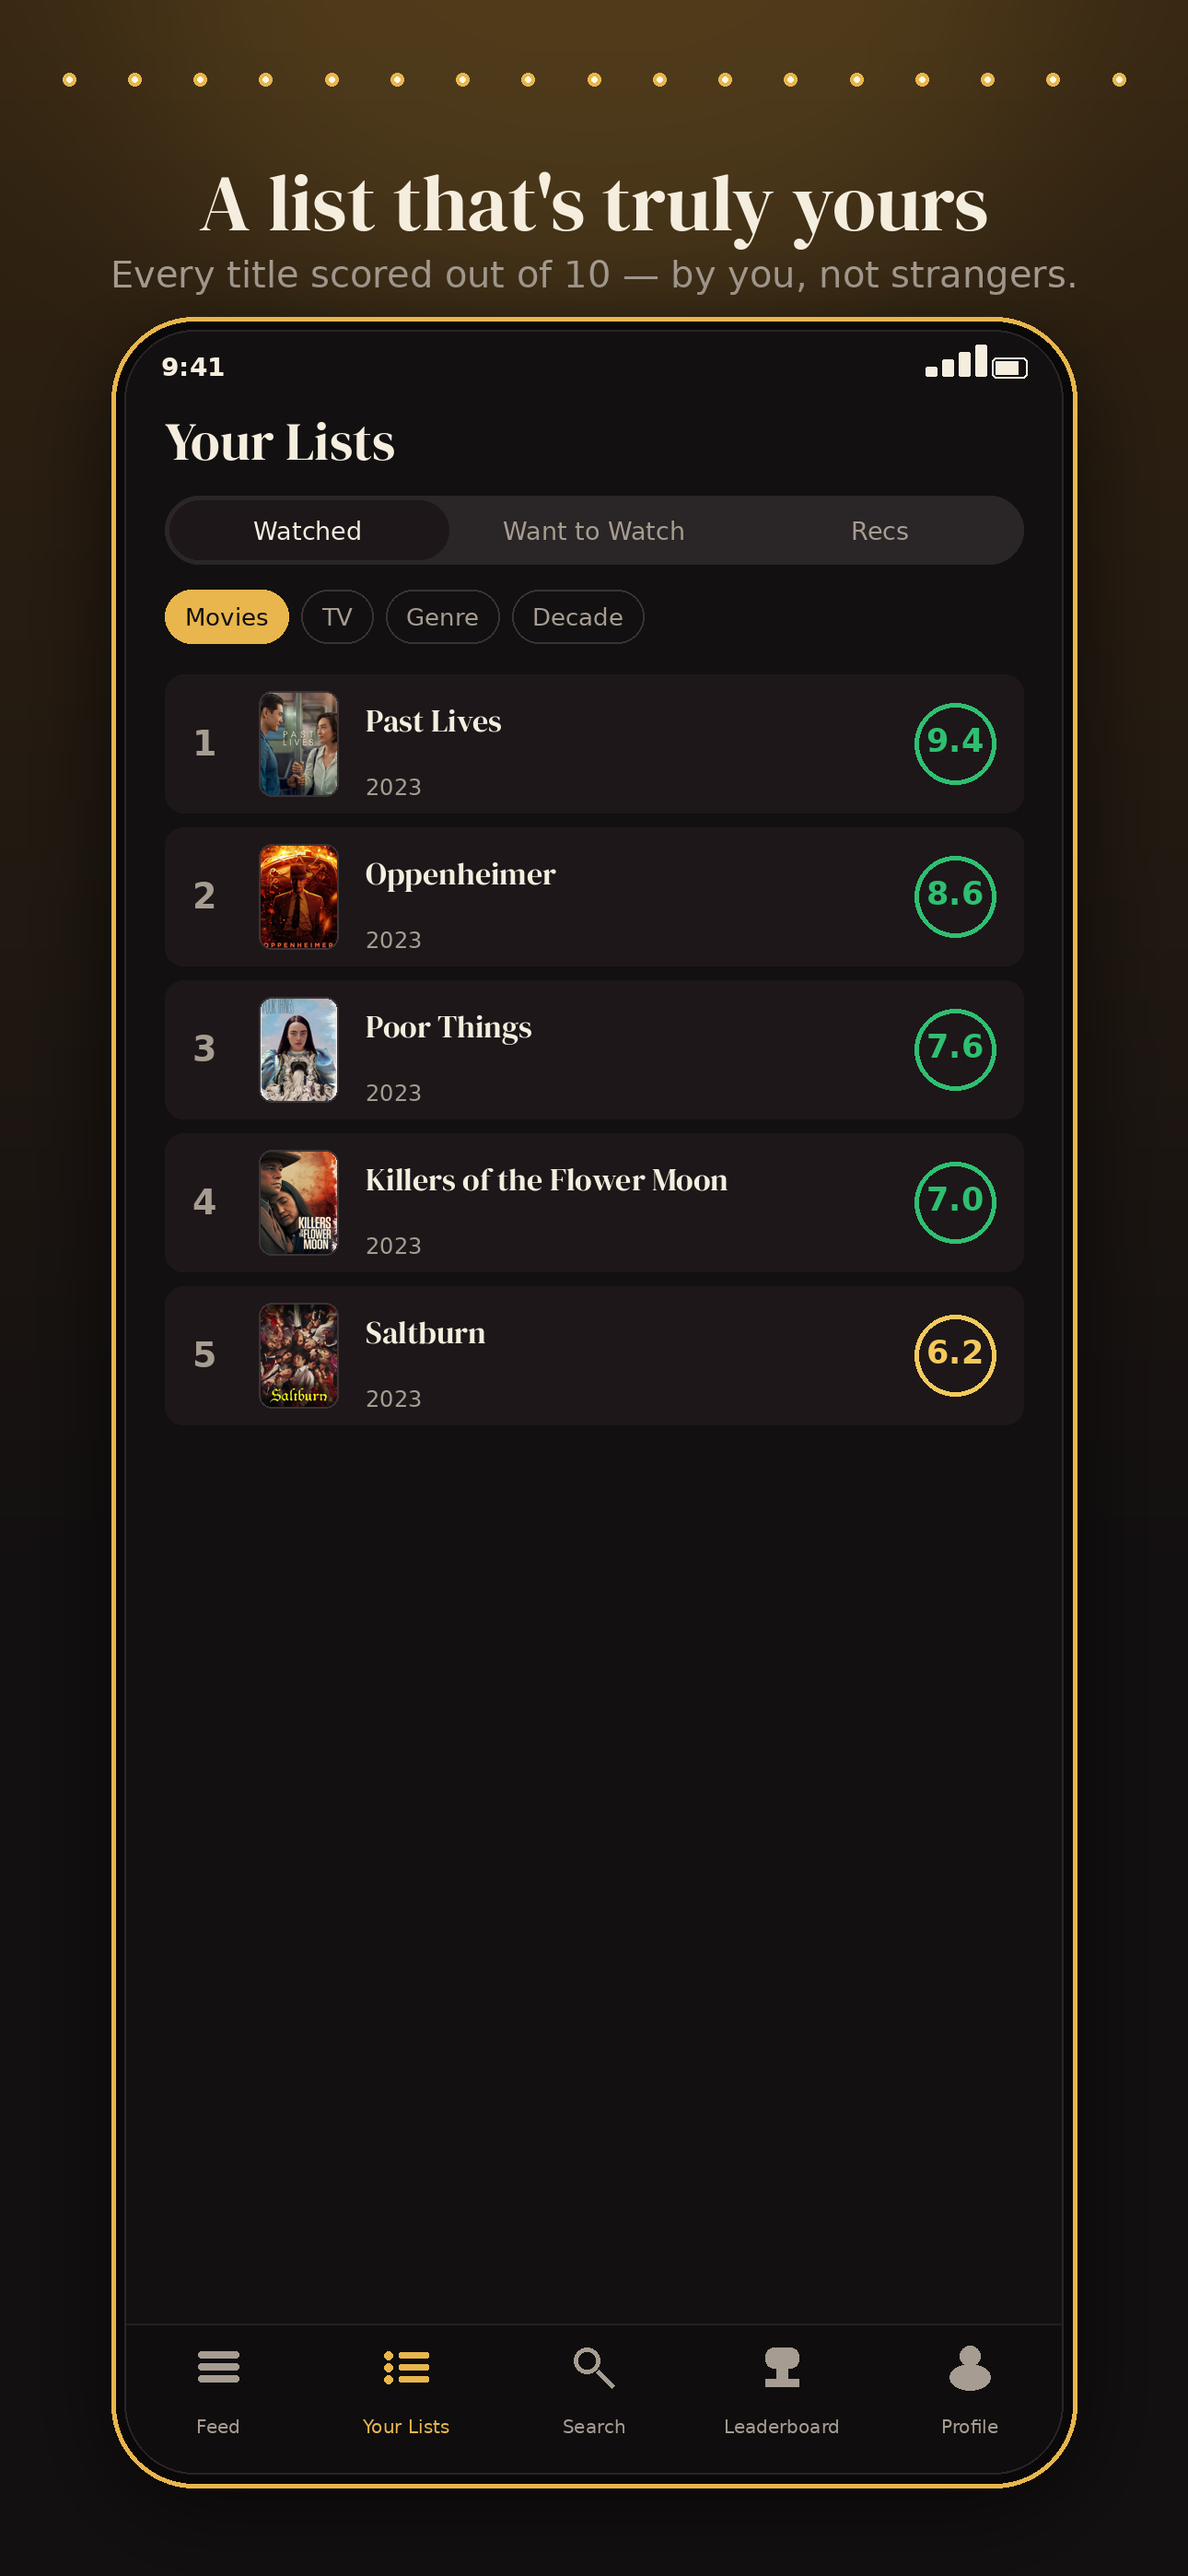
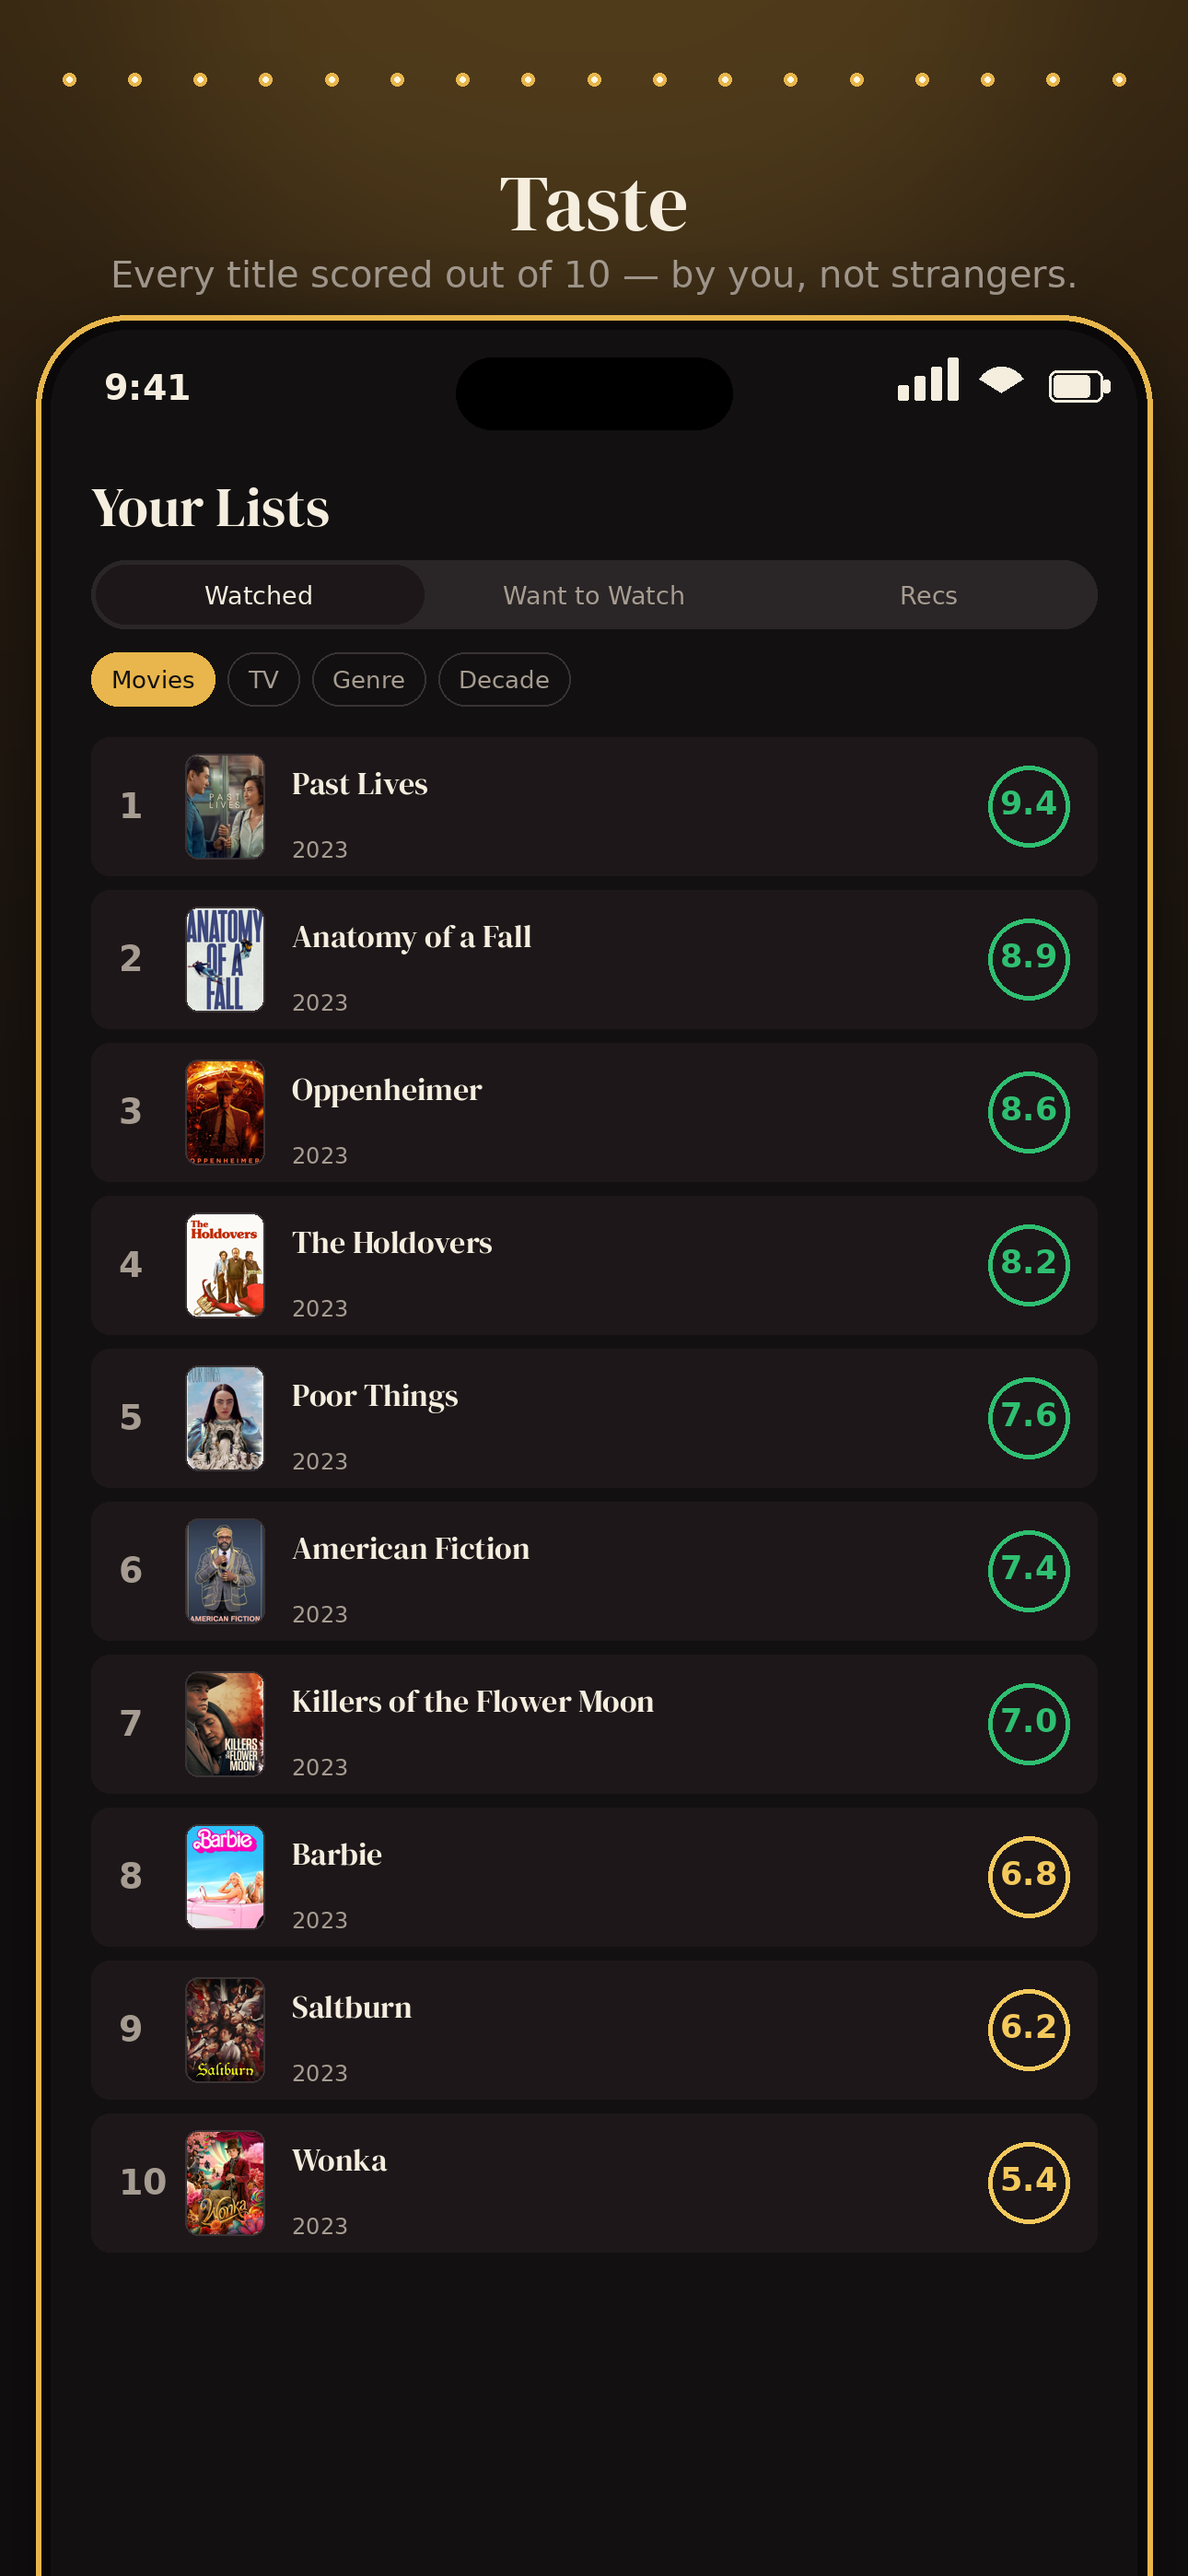
App Store screenshots: Beli-style focused frames
Bigger phone cropped at the bottom, real iOS status bar + Dynamic Island up
top, one-word headers (Rank/Compare/Taste/Friends/Discover), current app UI
filling the frame, real posters, marquee bulbs + gold frame.

diff --git a/docs/appstore/generate.py b/docs/appstore/generate.py
@@ -118,25 +118,25 @@ def caption(d, headline, sub):
 
 SCREEN = None  # set by phone(); poster() pastes onto this
 def phone(top, draw_screen):
-    """Large clean phone — black bezel + soft shadow, no ornamental rim."""
+    """Big, close phone cropped at the bottom (Beli-style), gold marquee frame."""
     global SCREEN
-    pw, ph = 1020, 2796-top-110
+    pw = 1180
     x0=(W-pw)//2; y0=top
+    ph = H - y0 + 220        # extend past the bottom edge → close + cropped
     sh=Image.new("RGBA",(W,H),(0,0,0,0))
-    ImageDraw.Draw(sh).rounded_rectangle([x0-14,y0+14,x0+pw+14,y0+ph+34], radius=96, fill=(0,0,0,160))
-    sh=sh.filter(ImageFilter.GaussianBlur(46))
+    ImageDraw.Draw(sh).rounded_rectangle([x0-14,y0+16,x0+pw+14,y0+ph], radius=104, fill=(0,0,0,160))
+    sh=sh.filter(ImageFilter.GaussianBlur(48))
     BASE.paste(Image.alpha_composite(BASE.convert("RGBA"),sh).convert("RGB"),(0,0))
     d=ImageDraw.Draw(BASE)
-    d.rounded_rectangle([x0-14,y0-14,x0+pw+14,y0+ph+14], radius=90, fill="#0a0809")
+    d.rounded_rectangle([x0-16,y0-16,x0+pw+16,y0+ph], radius=100, fill="#0a0809")
     # marquee-gold frame echoing the app icon's border
-    d.rounded_rectangle([x0-14,y0-14,x0+pw+14,y0+ph+14], radius=90, outline=MARQUEE, width=5)
+    d.rounded_rectangle([x0-16,y0-16,x0+pw+16,y0+ph], radius=100, outline=MARQUEE, width=6)
     screen=Image.new("RGB",(pw,ph),BG); SCREEN=screen
     sd=ImageDraw.Draw(screen)
     draw_screen(sd, pw, ph)
     mask=Image.new("L",(pw,ph),0)
-    ImageDraw.Draw(mask).rounded_rectangle([0,0,pw-1,ph-1], radius=76, fill=255)
+    ImageDraw.Draw(mask).rounded_rectangle([0,0,pw-1,ph-1], radius=84, fill=255)
     BASE.paste(screen,(x0,y0),mask)
-    d.rounded_rectangle([x0,y0,x0+pw-1,y0+ph-1], radius=76, outline="#2a2526", width=2)
 
 def score_badge(d, cx, cy, val, r=44, color=None):
     color = color or (GREEN if val>=7 else FINE if val>=5 else DIS)
@@ -170,12 +170,20 @@ def poster(d, x, y, w, h, title="", tone=0, query=None, year=None):
 SHOTS=[]
 
 def status_bar(d, pw):
-    d.text((40, 24), "9:41", font=sb(28), fill=INK)
-    # signal + battery glyphs (simple)
+    # Dynamic Island
+    iw=300; ih=78; ix=(pw-iw)//2; iy=30
+    d.rounded_rectangle([ix,iy,ix+iw,iy+ih], radius=39, fill="#000000")
+    # time (left)
+    d.text((58, 40), "9:41", font=sb(38), fill=INK)
+    # right cluster: signal bars, wifi fan, battery
     for i in range(4):
-        h=10+i*8; d.rounded_rectangle([pw-150+i*18, 50-h, pw-138+i*18, 50], radius=2, fill=INK)
-    d.rounded_rectangle([pw-78, 30, pw-40, 52], radius=5, outline=INK, width=2)
-    d.rectangle([pw-74, 34, pw-50, 48], fill=INK)
+        h=16+i*10; d.rounded_rectangle([pw-260+i*18, 76-h, pw-249+i*18, 76], radius=2, fill=INK)
+    wx=pw-176
+    d.pieslice([wx, 40, wx+56, 96], 212, 328, fill=INK)
+    bx=pw-96
+    d.rounded_rectangle([bx, 44, bx+58, 78], radius=8, outline=INK, width=3)
+    d.rounded_rectangle([bx+5, 49, bx+44, 73], radius=4, fill=INK)
+    d.rounded_rectangle([bx+58, 54, bx+66, 68], radius=3, fill=INK)
 
 def tabbar(d, pw, ph, active=0):
     bh=164; y=ph-bh
@@ -210,53 +218,56 @@ def chip(d, x, y, text, active=False):
         d.text((x+22,y+14),text,font=f,fill=GRAY)
     return x+cw+14
 
-# 1 — HERO (clean brand intro)
+# 1 — HERO (brand intro)
 def s_hero(d, pw, ph):
+    status_bar(d, pw)
     cx=pw//2
-    f=disp(168); t="CINI"; w=d.textlength(t,font=f)
-    d.text((cx-w/2, ph*0.30), t, font=f, fill=MARQUEE)
-    ctext(d, cx, ph*0.30+200, "EVERY FILM · RANKED", sb(34), GRAY, track=12)
-    ctext(d, cx, ph*0.52, "Rank everything you watch", sf(46), INK)
-    ctext(d, cx, ph*0.52+70, "through quick head-to-head taps.", sf(46), INK)
+    f=disp(176); t="CINI"; w=d.textlength(t,font=f)
+    d.text((cx-w/2, 520), t, font=f, fill=MARQUEE)
+    ctext(d, cx, 740, "EVERY FILM · RANKED", sb(36), GRAY, track=12)
+    ctext(d, cx, 1000, "Rank everything you watch", sf(50), INK)
+    ctext(d, cx, 1072, "through quick head-to-head taps.", sf(50), INK)
     for k,(c,lbl) in enumerate([(LOVE,"Liked it"),(FINE,"It was fine"),(DIS,"Didn't")]):
-        bx=cx-300+k*300
-        d.ellipse([bx-60,ph*0.70,bx+60,ph*0.70+120], fill=c)
-        ww=d.textlength(lbl,font=sa(28)); d.text((bx-ww/2, ph*0.70+150), lbl, font=sa(28), fill=GRAY)
-SHOTS.append(("01-hero", "Every film, ranked.", "No star ratings — just your taste, in perfect order.", s_hero, "gold"))
+        bx=cx-320+k*320
+        d.ellipse([bx-66,1360,bx+66,1492], fill=c)
+        ww=d.textlength(lbl,font=sa(30)); d.text((bx-ww/2, 1520), lbl, font=sa(30), fill=GRAY)
+SHOTS.append(("01-hero", "Rank", "No star ratings — just your taste, in perfect order.", s_hero, "gold"))
 
 # 2 — COMPARE (the ranking modal)
 def s_compare(d, pw, ph):
     status_bar(d, pw)
     cx=pw//2
-    ctext(d, cx, 200, "Which did you", sf(64), INK)
-    ctext(d, cx, 280, "like more?", sf(64), INK)
-    pwid=380; px=80; py=520
+    ctext(d, cx, 220, "Which did you", sf(66), INK)
+    ctext(d, cx, 304, "like more?", sf(66), INK)
+    pwid=460; px=70; py=520
     poster(d, px, py, pwid, pwid*3//2, query="Whiplash", year=2014)
     poster(d, pw-px-pwid, py, pwid, pwid*3//2, query="Interstellar", year=2014)
     cyc=py+pwid*3//4
-    d.ellipse([cx-56, cyc-56, cx+56, cyc+56], fill=VELVET)
-    vt="VS"; f=sb(42); w=d.textlength(vt,font=f); d.text((cx-w/2, cyc-28), vt, font=f, fill="#fff")
+    d.ellipse([cx-62, cyc-62, cx+62, cyc+62], fill=VELVET)
+    vt="VS"; f=sb(46); w=d.textlength(vt,font=f); d.text((cx-w/2, cyc-30), vt, font=f, fill="#fff")
     for k,c in enumerate([LOVE,FINE,DIS]):
-        bx=cx-150+k*150; by=py+pwid*3//2+90
-        d.ellipse([bx-32,by,bx+32,by+64], fill=c)
-    ctext(d, cx, py+pwid*3//2+200, "A few quick taps — no scores to overthink.", sa(28), GRAY)
-SHOTS.append(("02-no-star-ratings", "No star ratings. Ever.", "Answer one question and Cini orders everything you've seen.", s_compare, "velvet"))
+        bx=cx-170+k*170; by=py+pwid*3//2+110
+        d.ellipse([bx-38,by,bx+38,by+76], fill=c)
+    ctext(d, cx, py+pwid*3//2+240, "A few quick taps — no scores to overthink.", sa(30), GRAY)
+SHOTS.append(("02-no-star-ratings", "Compare", "Answer one question and Cini orders everything you've seen.", s_compare, "velvet"))
 
-# 3 — YOUR LISTS (current app: segmented tabs + filter chips + ranked rows)
+# 3 — YOUR LISTS (segmented tabs + filter chips + ranked rows)
 def s_list(d, pw, ph):
     status_bar(d, pw)
-    d.text((44, 80), "Your Lists", font=sf(58), fill=INK)
-    segs=["Watched","Want to Watch","Recs"]; sy=180; sx=44; sw=pw-88
+    d.text((44, 150), "Your Lists", font=sf(60), fill=INK)
+    segs=["Watched","Want to Watch","Recs"]; sy=250; sx=44; sw=pw-88
     d.rounded_rectangle([sx,sy,sx+sw,sy+74], radius=37, fill=FILL)
     seg_w=sw/3
     for i,s in enumerate(segs):
         if i==0: d.rounded_rectangle([sx+5,sy+5,sx+seg_w-3,sy+69], radius=32, fill=SURF)
         f=sa(27); w=d.textlength(s,font=f); d.text((sx+seg_w*i+seg_w/2-w/2, sy+22), s, font=f, fill=INK if i==0 else GRAY)
-    fy=sy+102; x=44
+    fy=sy+100; x=44
     x=chip(d,x,fy,"Movies",active=True); x=chip(d,x,fy,"TV")
     x=chip(d,x,fy,"Genre"); x=chip(d,x,fy,"Decade")
-    titles=[("Past Lives",2023,9.4),("Oppenheimer",2023,8.6),("Poor Things",2023,7.6),
-            ("Killers of the Flower Moon",2023,7.0),("Saltburn",2023,6.2)]
+    titles=[("Past Lives",2023,9.4),("Anatomy of a Fall",2023,8.9),("Oppenheimer",2023,8.6),
+            ("The Holdovers",2023,8.2),("Poor Things",2023,7.6),("American Fiction",2023,7.4),
+            ("Killers of the Flower Moon",2023,7.0),("Barbie",2023,6.8),("Saltburn",2023,6.2),
+            ("Wonka",2023,5.4)]
     y=fy+92
     for i,(t,yr,sc) in enumerate(titles):
         d.rounded_rectangle([44,y,pw-44,y+150], radius=20, fill=SURF)
@@ -267,21 +278,21 @@ def s_list(d, pw, ph):
         d.text((262, y+108), str(yr), font=sa(24), fill=GRAY)
         score_badge(d, pw-118, y+75, sc)
         y+=166
-    tabbar(d, pw, ph, active=1)
-SHOTS.append(("03-ranked-list", "A list that's truly yours", "Every title scored out of 10 — by you, not strangers.", s_list, "bronze"))
+SHOTS.append(("03-ranked-list", "Taste", "Every title scored out of 10 — by you, not strangers.", s_list, "bronze"))
 
 # 4 — FEED (cini header, search, pills, friend cards)
 def s_feed(d, pw, ph):
     status_bar(d, pw)
-    d.text((44, 72), "cini", font=disp(52), fill=MARQUEE)
+    d.text((44, 150), "cini", font=disp(54), fill=MARQUEE)
     for k in range(3):
-        bx=pw-220+k*70; d.ellipse([bx,86,bx+40,126], outline=GRAY, width=4)
-    d.rounded_rectangle([44,170,pw-44,242], radius=20, fill=FILL)
-    d.ellipse([66,190,98,222], outline=GRAY, width=4)
-    d.text((118,188), "Search a movie, member, etc.", font=sa(28), fill=GRAY)
-    x=chip(d,44,270,"Trending"); x=chip(d,x,270,"Friend Recs")
-    cards=[("MAYA","ranked","Dune: Part Two",2024,8.7),("PRIYA","ranked","Anora",2024,9.1)]
-    y=370
+        bx=pw-220+k*70; d.ellipse([bx,164,bx+40,204], outline=GRAY, width=4)
+    d.rounded_rectangle([44,250,pw-44,322], radius=20, fill=FILL)
+    d.ellipse([66,270,98,302], outline=GRAY, width=4)
+    d.text((118,268), "Search a movie, member, etc.", font=sa(28), fill=GRAY)
+    x=chip(d,44,352,"Trending"); x=chip(d,x,352,"Friend Recs")
+    cards=[("MAYA","ranked","Dune: Part Two",2024,8.7),("PRIYA","ranked","Anora",2024,9.1),
+           ("SAM","ranked","Oppenheimer",2023,8.4),("LEO","wants to watch","The Substance",2024,None)]
+    y=450
     for name,act,title,yr,sc in cards:
         d.rounded_rectangle([44,y,pw-44,y+360], radius=22, fill=SURF)
         d.ellipse([74,y+30,150,y+106], fill=SURF2)
@@ -293,17 +304,17 @@ def s_feed(d, pw, ph):
             d.text((254, y+170+j*48), ln, font=sf(40), fill=INK)
         if sc is not None: score_badge(d, pw-150, y+220, sc, r=50)
         y+=386
-    tabbar(d, pw, ph, active=0)
-SHOTS.append(("04-friends", "Better with friends", "See what friends scored before you spend a night on it.", s_feed, "plum"))
+SHOTS.append(("04-friends", "Friends", "See what friends scored before you spend a night on it.", s_feed, "plum"))
 
 # 5 — WANT TO WATCH, sorted by Rec Score
 def s_recs(d, pw, ph):
     status_bar(d, pw)
-    d.text((44, 80), "Want to Watch", font=sf(54), fill=INK)
-    d.text((44, 158), "sorted by what you'll love", font=sa(30), fill=GRAY)
-    titles=[("Sinners",2025,9.2),("The Brutalist",2024,8.9),("Conclave",2024,8.3),
-            ("A Real Pain",2024,7.8),("Nosferatu",2024,7.1),("Wicked",2024,6.4)]
-    y=240
+    d.text((44, 150), "Want to Watch", font=sf(56), fill=INK)
+    d.text((44, 232), "sorted by what you'll love", font=sa(30), fill=GRAY)
+    titles=[("Sinners",2025,9.2),("The Brutalist",2024,8.9),("Anora",2024,8.5),("Conclave",2024,8.3),
+            ("Dune: Part Two",2024,8.0),("Challengers",2024,7.9),("A Real Pain",2024,7.8),
+            ("The Substance",2024,7.5),("Nosferatu",2024,7.1),("Wicked",2024,6.4)]
+    y=320
     for t,yr,sc in titles:
         d.rounded_rectangle([44,y,pw-44,y+150], radius=20, fill=SURF)
         poster(d, 64, y+18, 86, 114, query=t, year=yr)
@@ -314,8 +325,7 @@ def s_recs(d, pw, ph):
         d.text((pw-292, y+62), "REC", font=sb(22), fill=GRAY)
         score_badge(d, pw-118, y+77, sc, r=42)
         y+=164
-    tabbar(d, pw, ph, active=1)
-SHOTS.append(("05-rec-scores", "Recs that match your taste", "Rec Scores predict how much YOU'll like what you haven't seen.", s_recs, "ember"))
+SHOTS.append(("05-rec-scores", "Discover", "Rec Scores predict how much you'll like what you haven't seen.", s_recs, "ember"))
 
 os.makedirs(OUT, exist_ok=True)
 for name, headline, sub, fn, accent in SHOTS:
